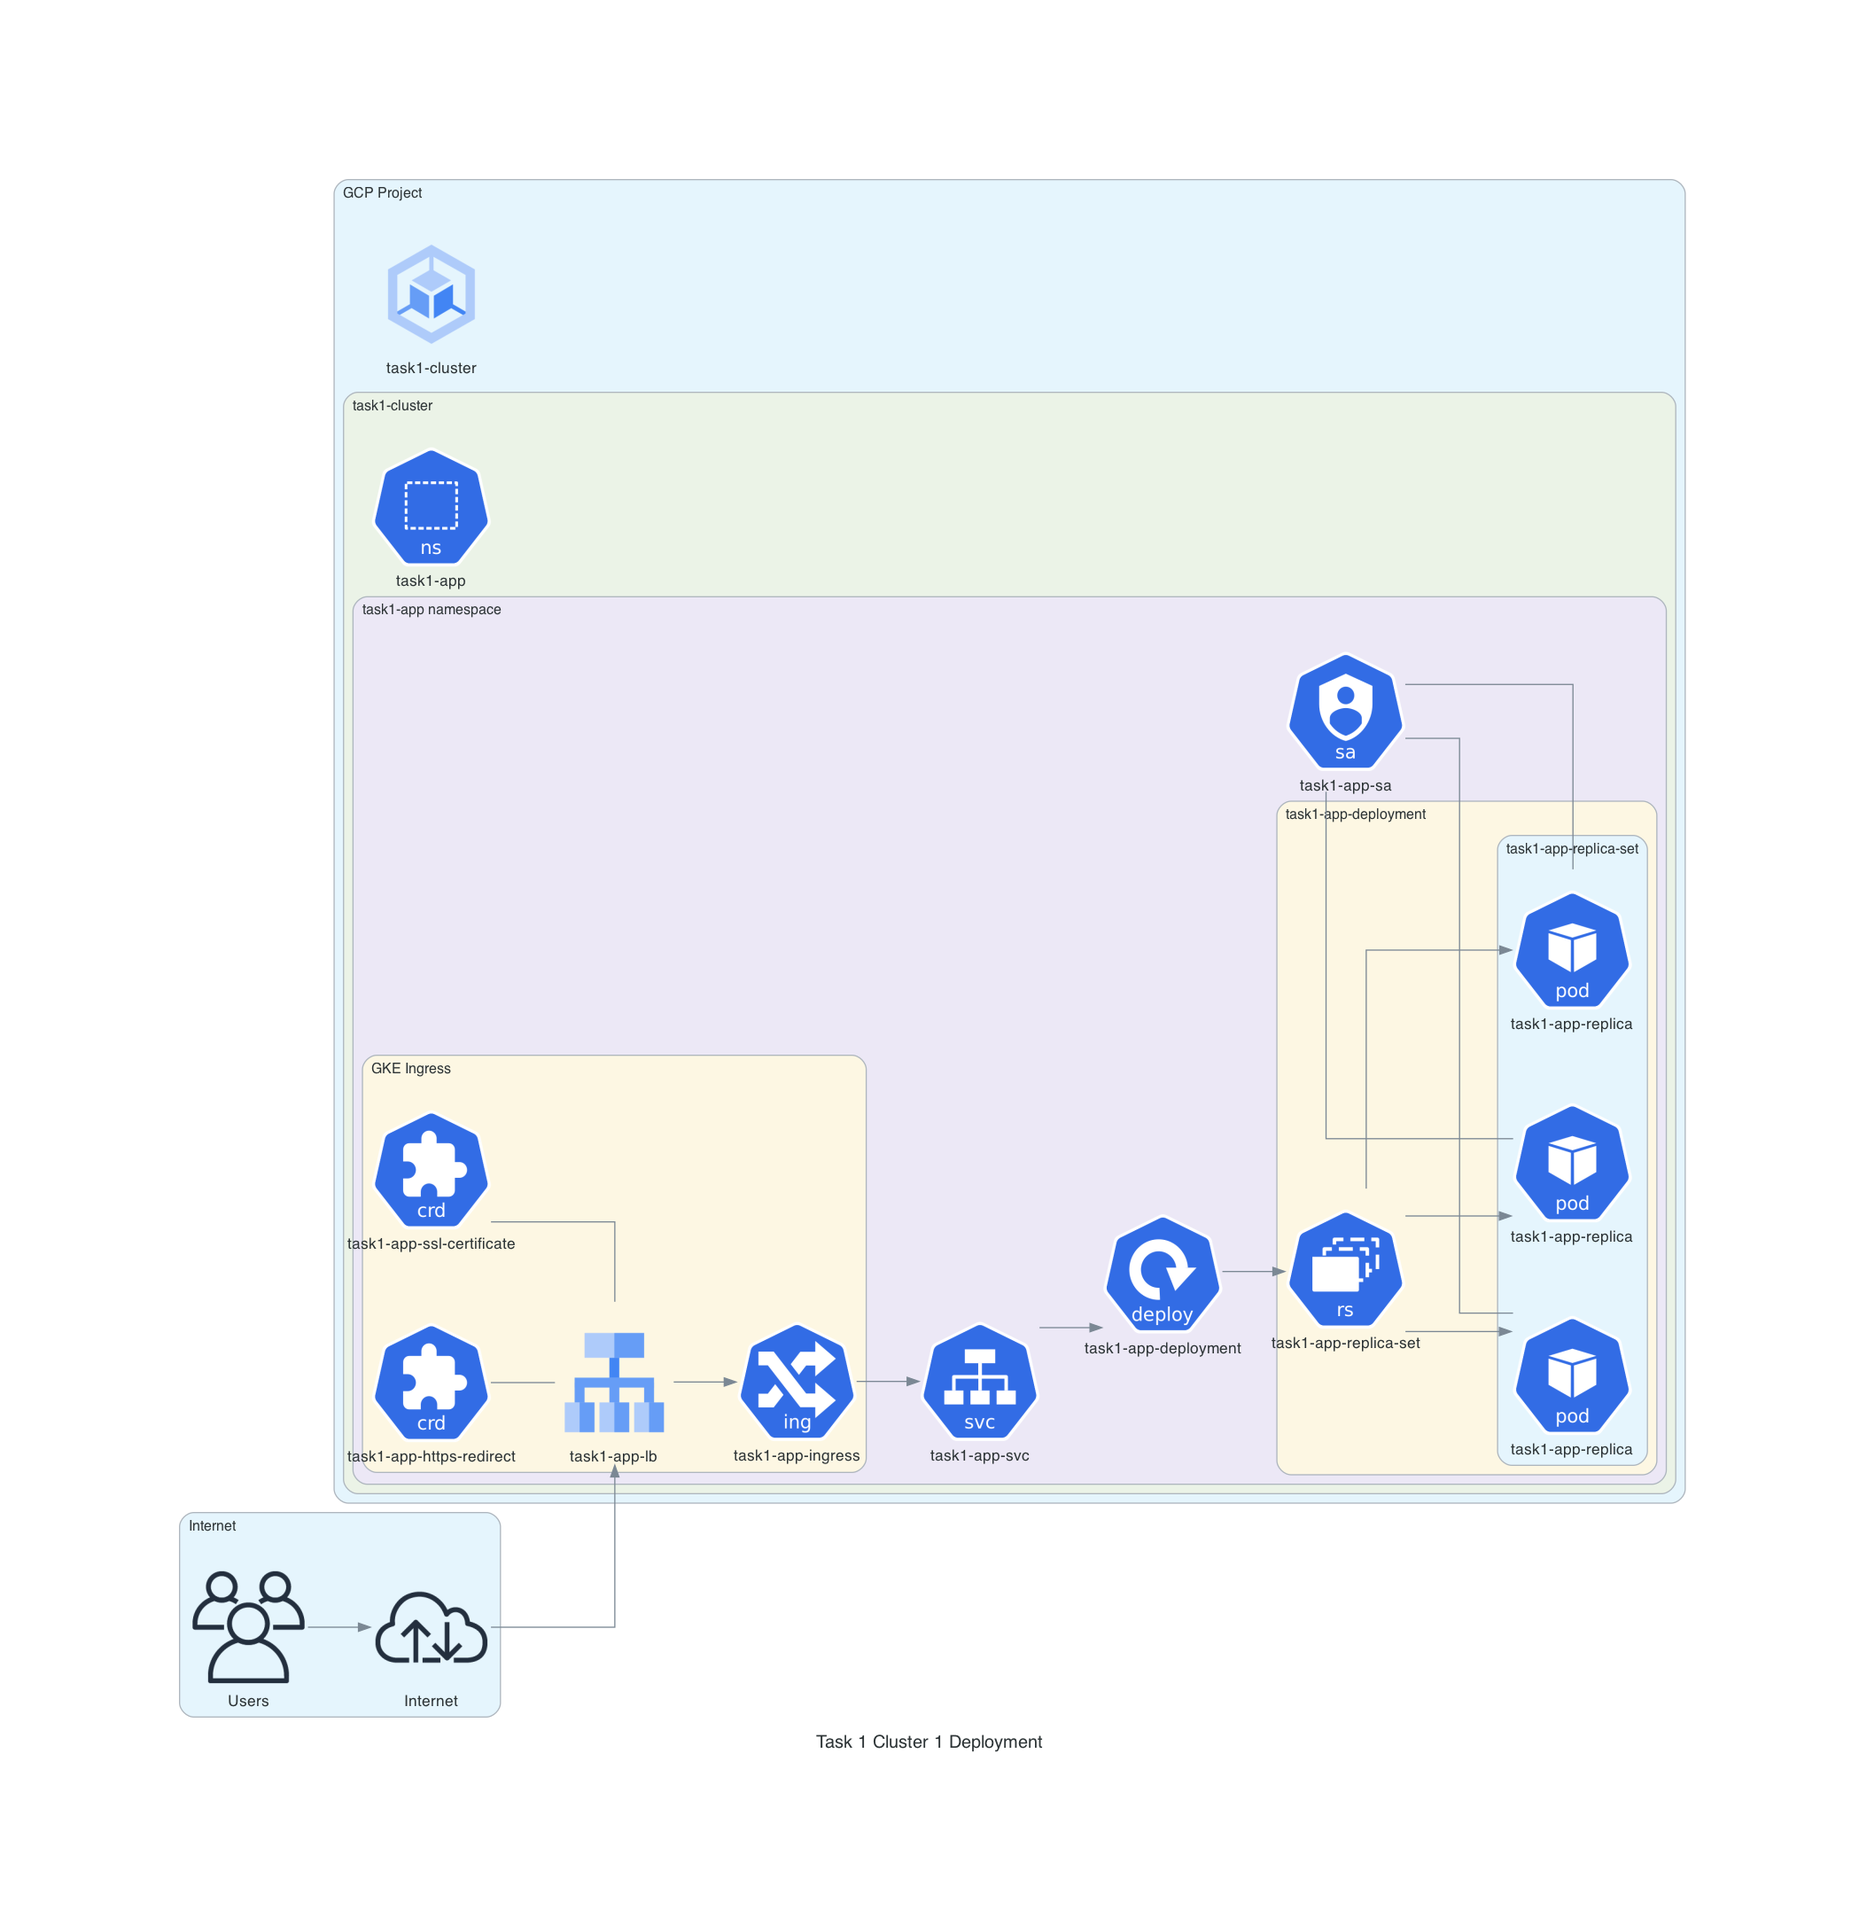
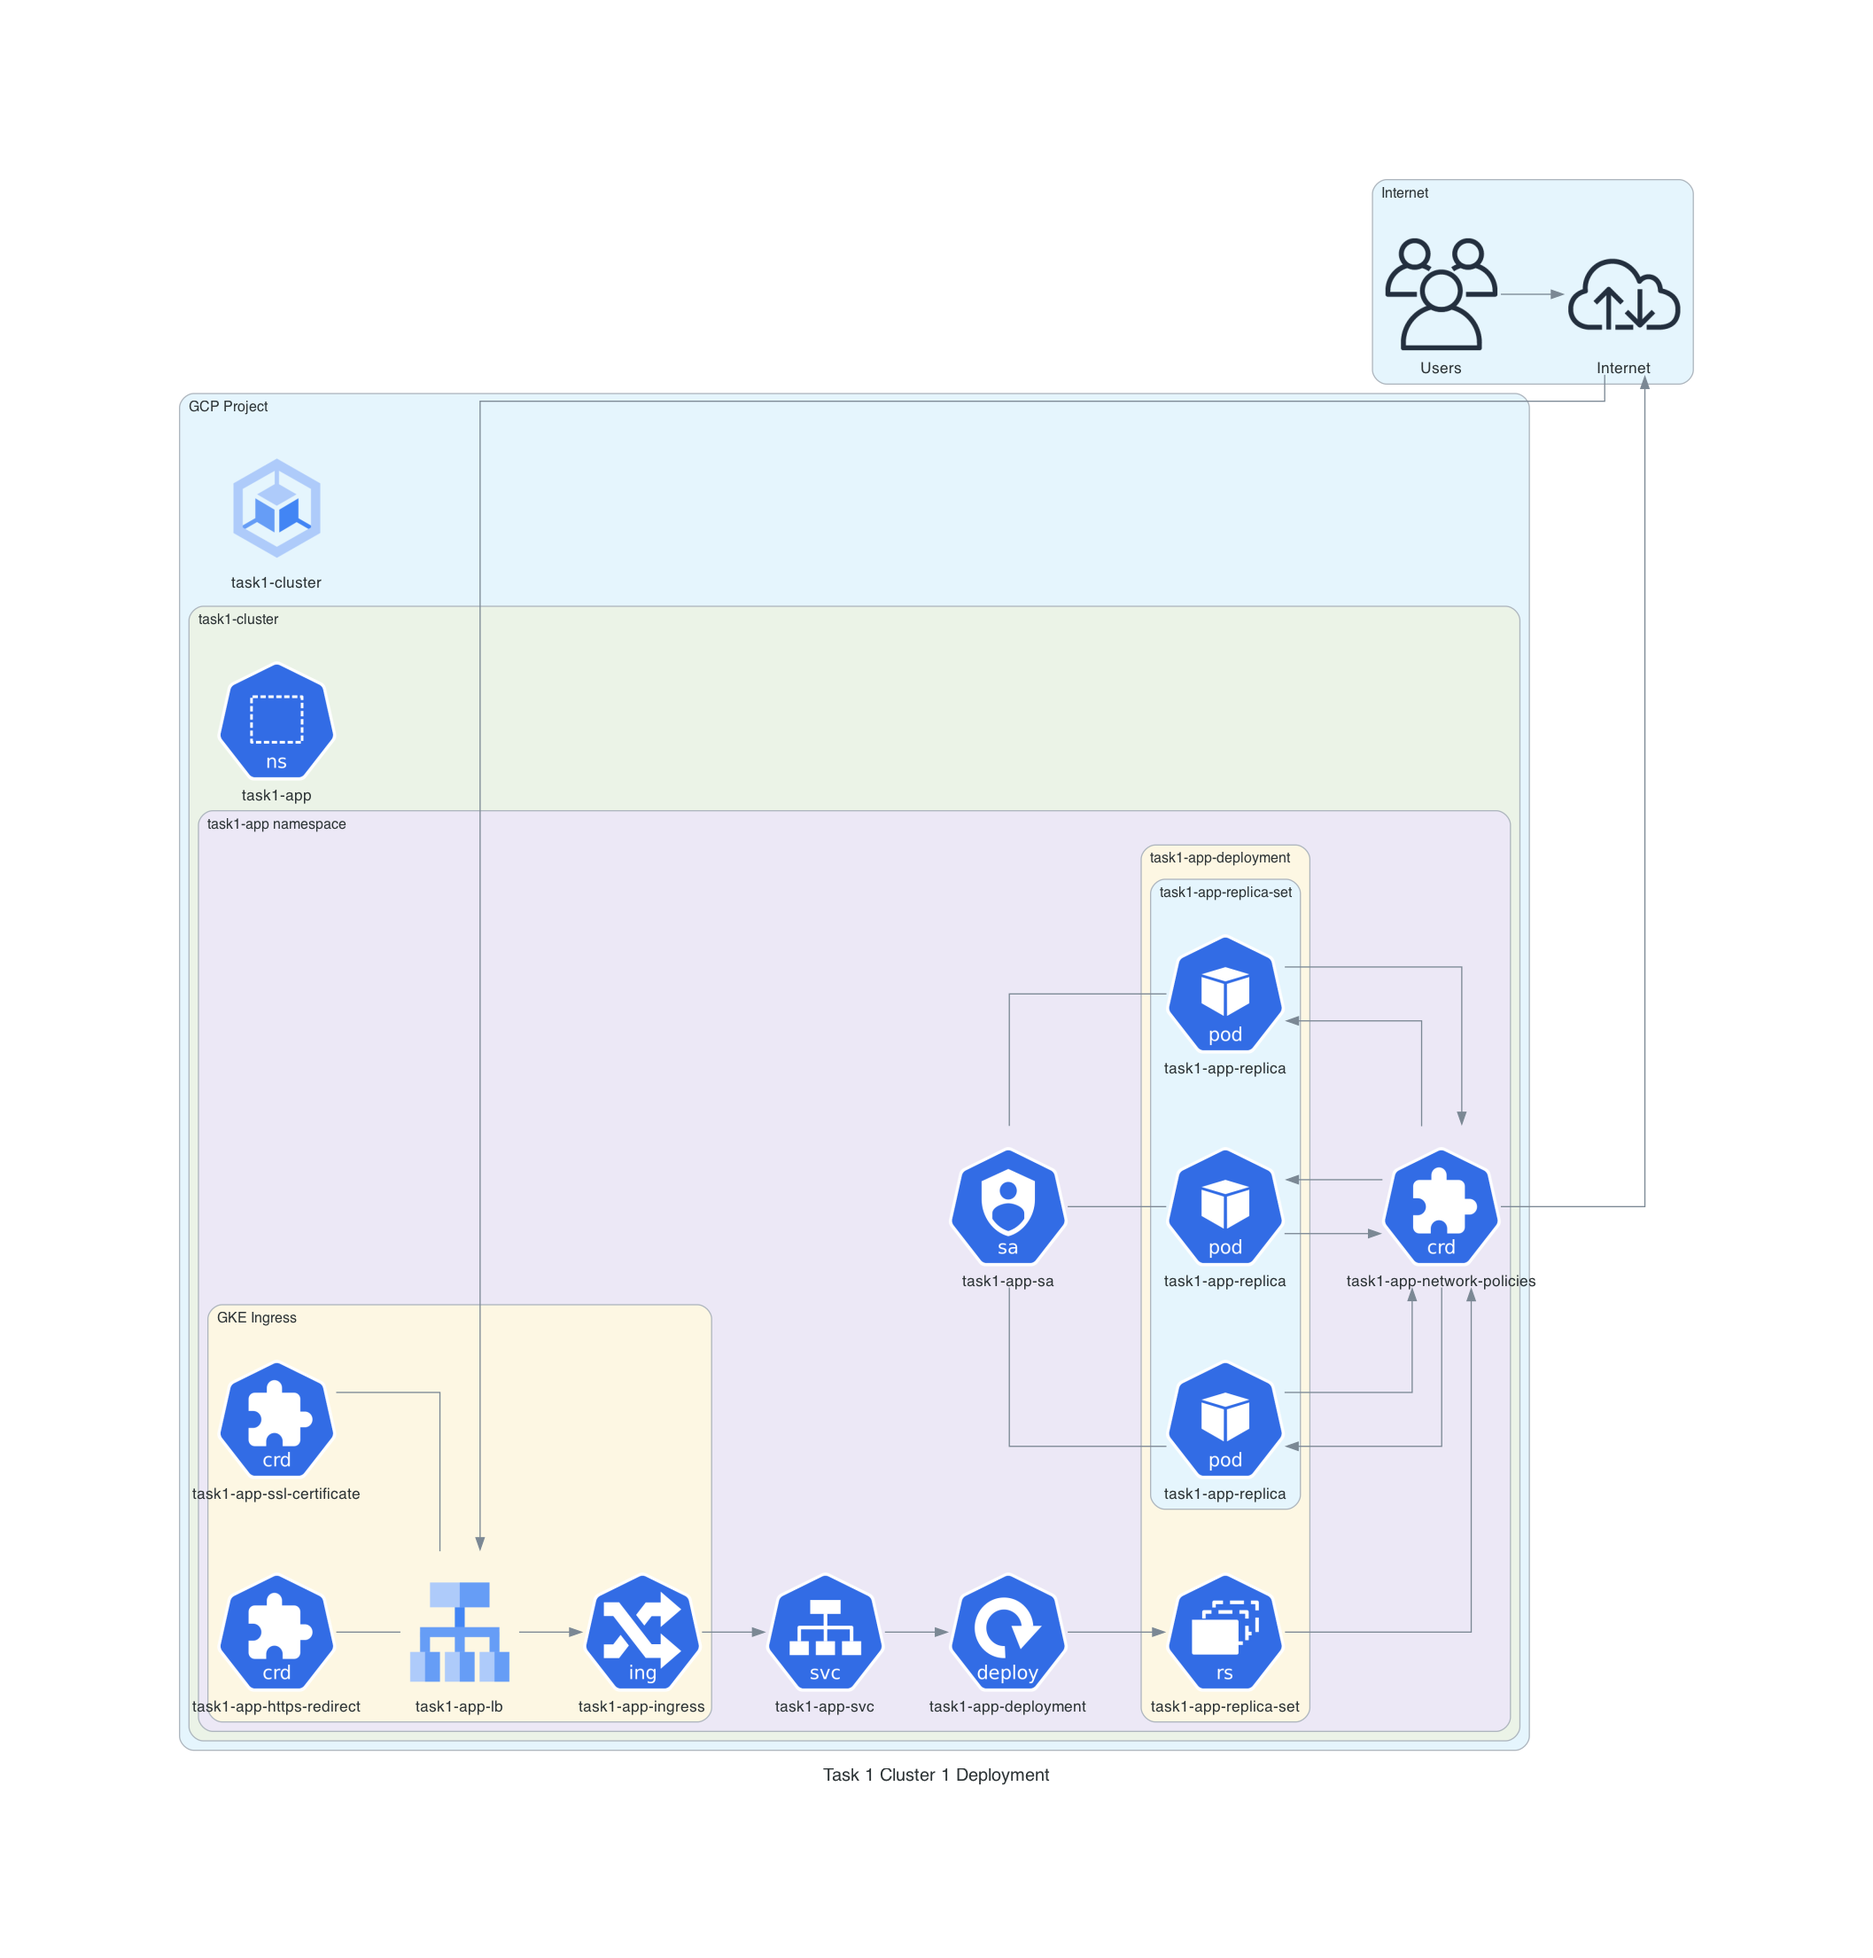
docs: add network policy representation to diagram

Changed region(s): [[0.0929, 0.0925, 0.9295, 0.9254]]

diff --git a/docs/diagrams_code.py b/docs/diagrams_code.py
@@ -61,6 +61,7 @@ with Diagram("Task 1 Cluster 1 Deployment", show=False):
                 service_account = ServiceAccount("task1-app-sa")
                 deployment = Deployment("task1-app-deployment")
                 service = SVC("task1-app-svc")
+                network_policies = CRD("task1-app-network-policies")
                 with Cluster("task1-app-deployment"):
                     replica_set = ReplicaSet("task1-app-replica-set")
                     with Cluster("task1-app-replica-set"):
@@ -80,5 +81,6 @@ with Diagram("Task 1 Cluster 1 Deployment", show=False):
     ssl_certificate - lb
     https_redirect - lb
 
-    service >> deployment >> replica_set >> pod
+    service >> deployment >> replica_set >> network_policies >> pod
+    pod >> network_policies >> internet
     service_account - pod
